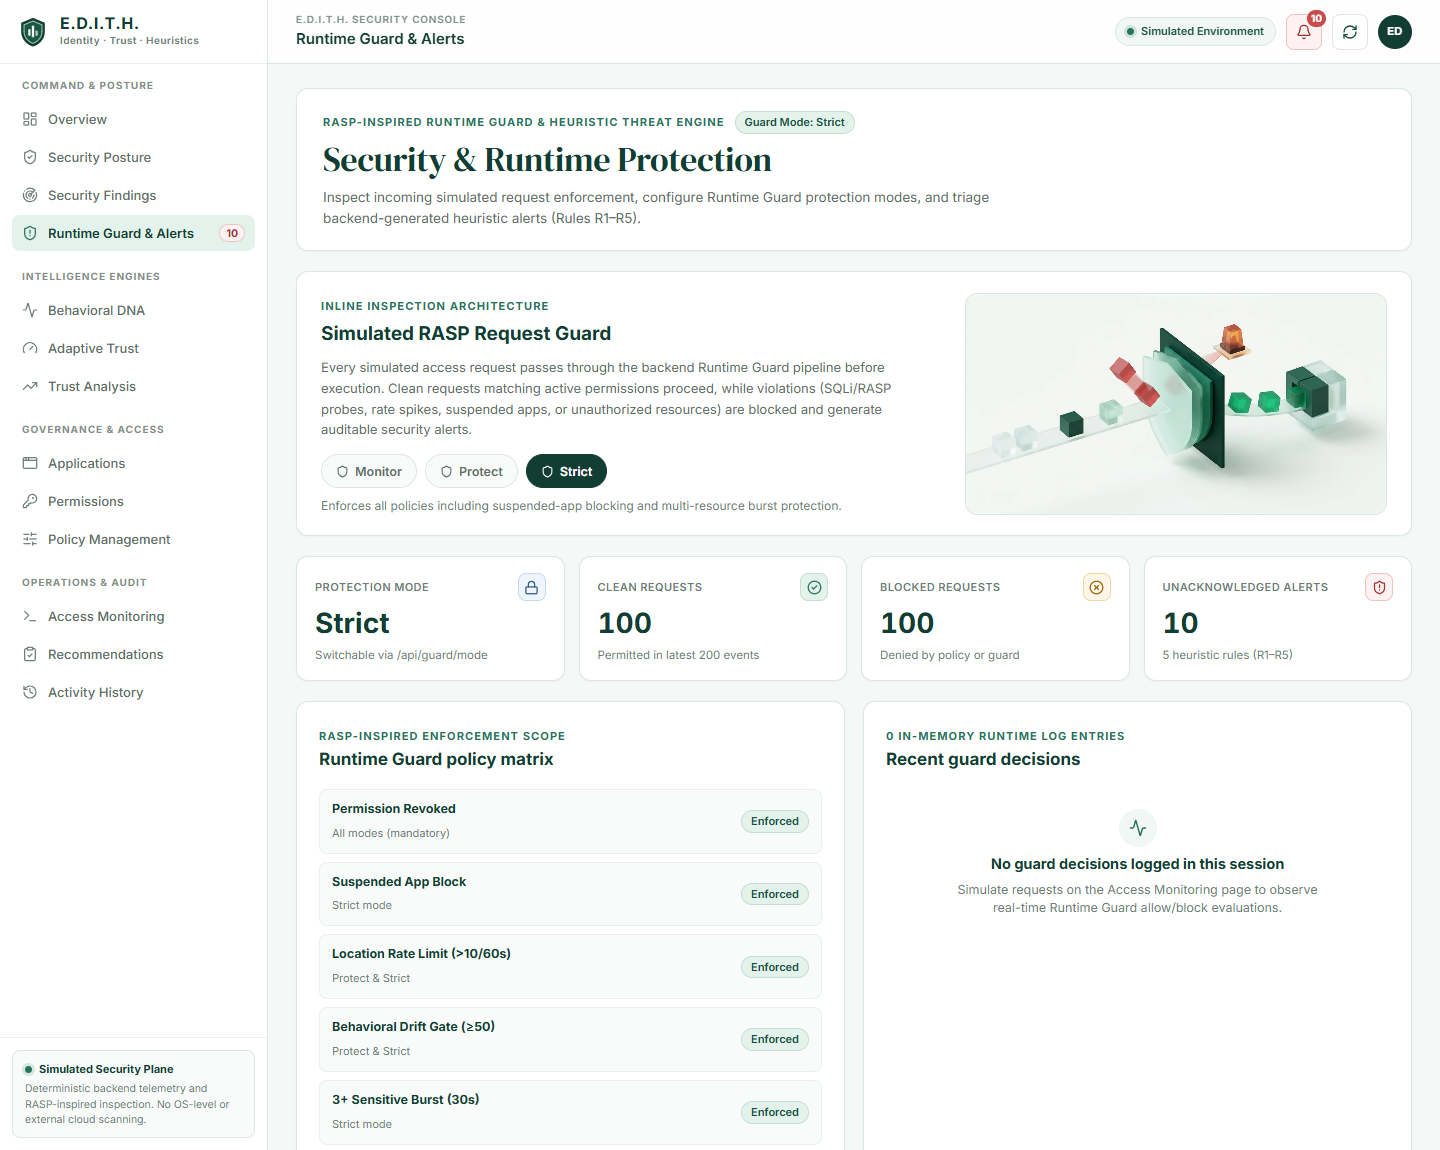
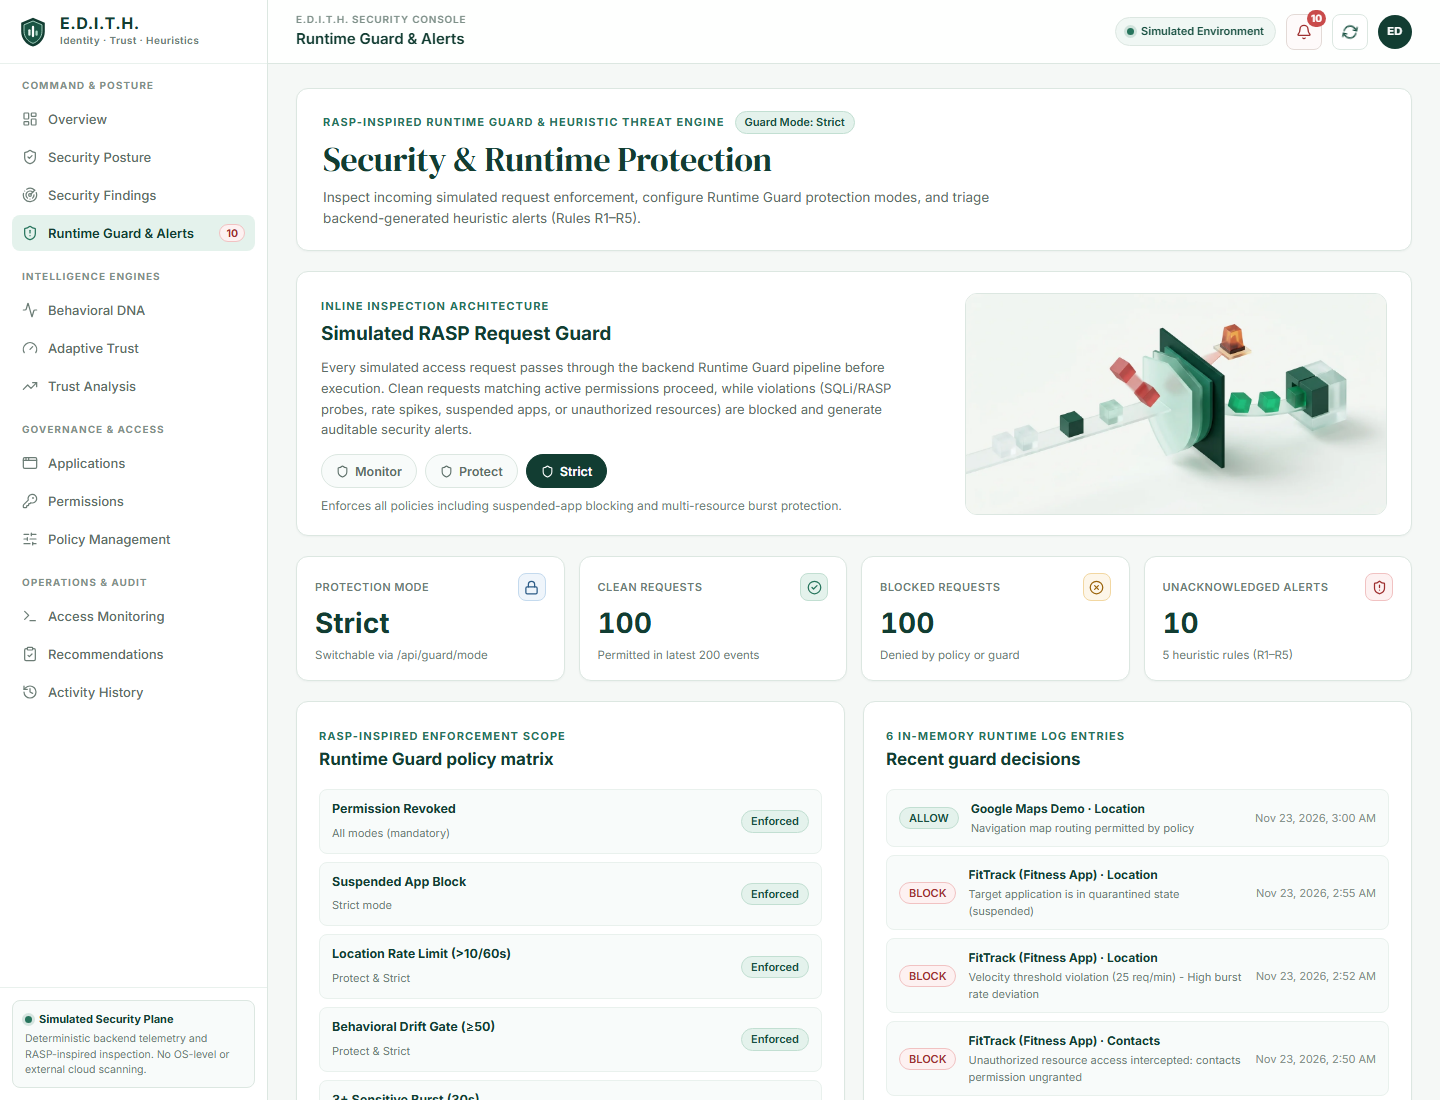
readme updated

diff --git a/backend/store/index.js b/backend/store/index.js
@@ -23,7 +23,62 @@ class DataStore {
     this.trustHistory = JSON.parse(JSON.stringify(seed.trustHistory));
     this.counters = JSON.parse(JSON.stringify(seed.counters));
     this.guardMode = initialGuardMode();
-    this.guardDecisions = [];
+    this.guardDecisions = [
+      {
+        decisionId: 'gd_0001',
+        appId: 'app_01',
+        resource: 'location',
+        decision: 'ALLOW',
+        reason: 'Legitimate GPS route recording within rate envelope',
+        policy: 'Baseline compliant',
+        timestamp: '2026-11-22T21:10:00.000Z',
+      },
+      {
+        decisionId: 'gd_0002',
+        appId: 'app_02',
+        resource: 'camera',
+        decision: 'ALLOW',
+        reason: 'Image search camera capture permitted by policy',
+        policy: 'Least-privilege permission verified',
+        timestamp: '2026-11-22T21:15:30.000Z',
+      },
+      {
+        decisionId: 'gd_0003',
+        appId: 'app_01',
+        resource: 'contacts',
+        decision: 'BLOCK',
+        reason: 'Unauthorized resource access intercepted: contacts permission ungranted',
+        policy: 'Zero-Trust strict sandbox enforcement',
+        timestamp: '2026-11-22T21:20:00.000Z',
+      },
+      {
+        decisionId: 'gd_0004',
+        appId: 'app_01',
+        resource: 'location',
+        decision: 'BLOCK',
+        reason: 'Velocity threshold violation (25 req/min) - High burst rate deviation',
+        policy: 'Anomaly Guard RASP trigger',
+        timestamp: '2026-11-22T21:22:15.000Z',
+      },
+      {
+        decisionId: 'gd_0005',
+        appId: 'app_01',
+        resource: 'location',
+        decision: 'BLOCK',
+        reason: 'Target application is in quarantined state (suspended)',
+        policy: 'Automated RASP application suspension active',
+        timestamp: '2026-11-22T21:25:00.000Z',
+      },
+      {
+        decisionId: 'gd_0006',
+        appId: 'app_04',
+        resource: 'location',
+        decision: 'ALLOW',
+        reason: 'Navigation map routing permitted by policy',
+        policy: 'Compliant with expected profile',
+        timestamp: '2026-11-22T21:30:00.000Z',
+      },
+    ];
     this.adaptiveConfig = {
       escalationEnabled: true,
       escalationMultiplier: ADAPTIVE_TRUST_CONFIG.REPEATED_VIOLATION.ESCALATION_MULTIPLIER,

diff --git a/backend/services/mongoService.js b/backend/services/mongoService.js
@@ -27,6 +27,7 @@ import { seedPostureDemoData } from './demoDataService.js';
 import { mongoose as dbMongoose } from '../database/connection.js';
 import { analyzeEvent } from './anomalyDetection.js';
 import { calculateTrustScore, changeReasonFor, penaltyFor, buildScoreExplanation } from './trustScore.js';
+import { store } from '../store/index.js';
 
 const objectId = (value) => new mongoose.Types.ObjectId(value);
 const idString = (value) => value?._id ? value._id.toString() : value?.toString?.() ?? null;
@@ -330,6 +331,17 @@ export async function processAccessRequest(payload) {
     } else {
       decision = { allowed: true, reason: 'ok' };
       permission.lastAccessedAt = timestamp;
+    }
+
+    if (store?.addGuardDecision) {
+      store.addGuardDecision({
+        appId: app.id,
+        resource: payload.resource,
+        decision: decision.allowed ? 'ALLOW' : 'BLOCK',
+        reason: decision.allowed ? 'Request permitted within least-privilege boundary' : (decision.reason === 'app_suspended' ? 'Target application is quarantined (suspended)' : 'Permission ungranted or disabled'),
+        policy: decision.allowed ? 'Least-privilege validated' : 'Zero-Trust RASP guard block',
+        timestamp: timestamp instanceof Date ? timestamp.toISOString() : new Date(timestamp).toISOString(),
+      });
     }
 
     const [event] = await Event.create([{
